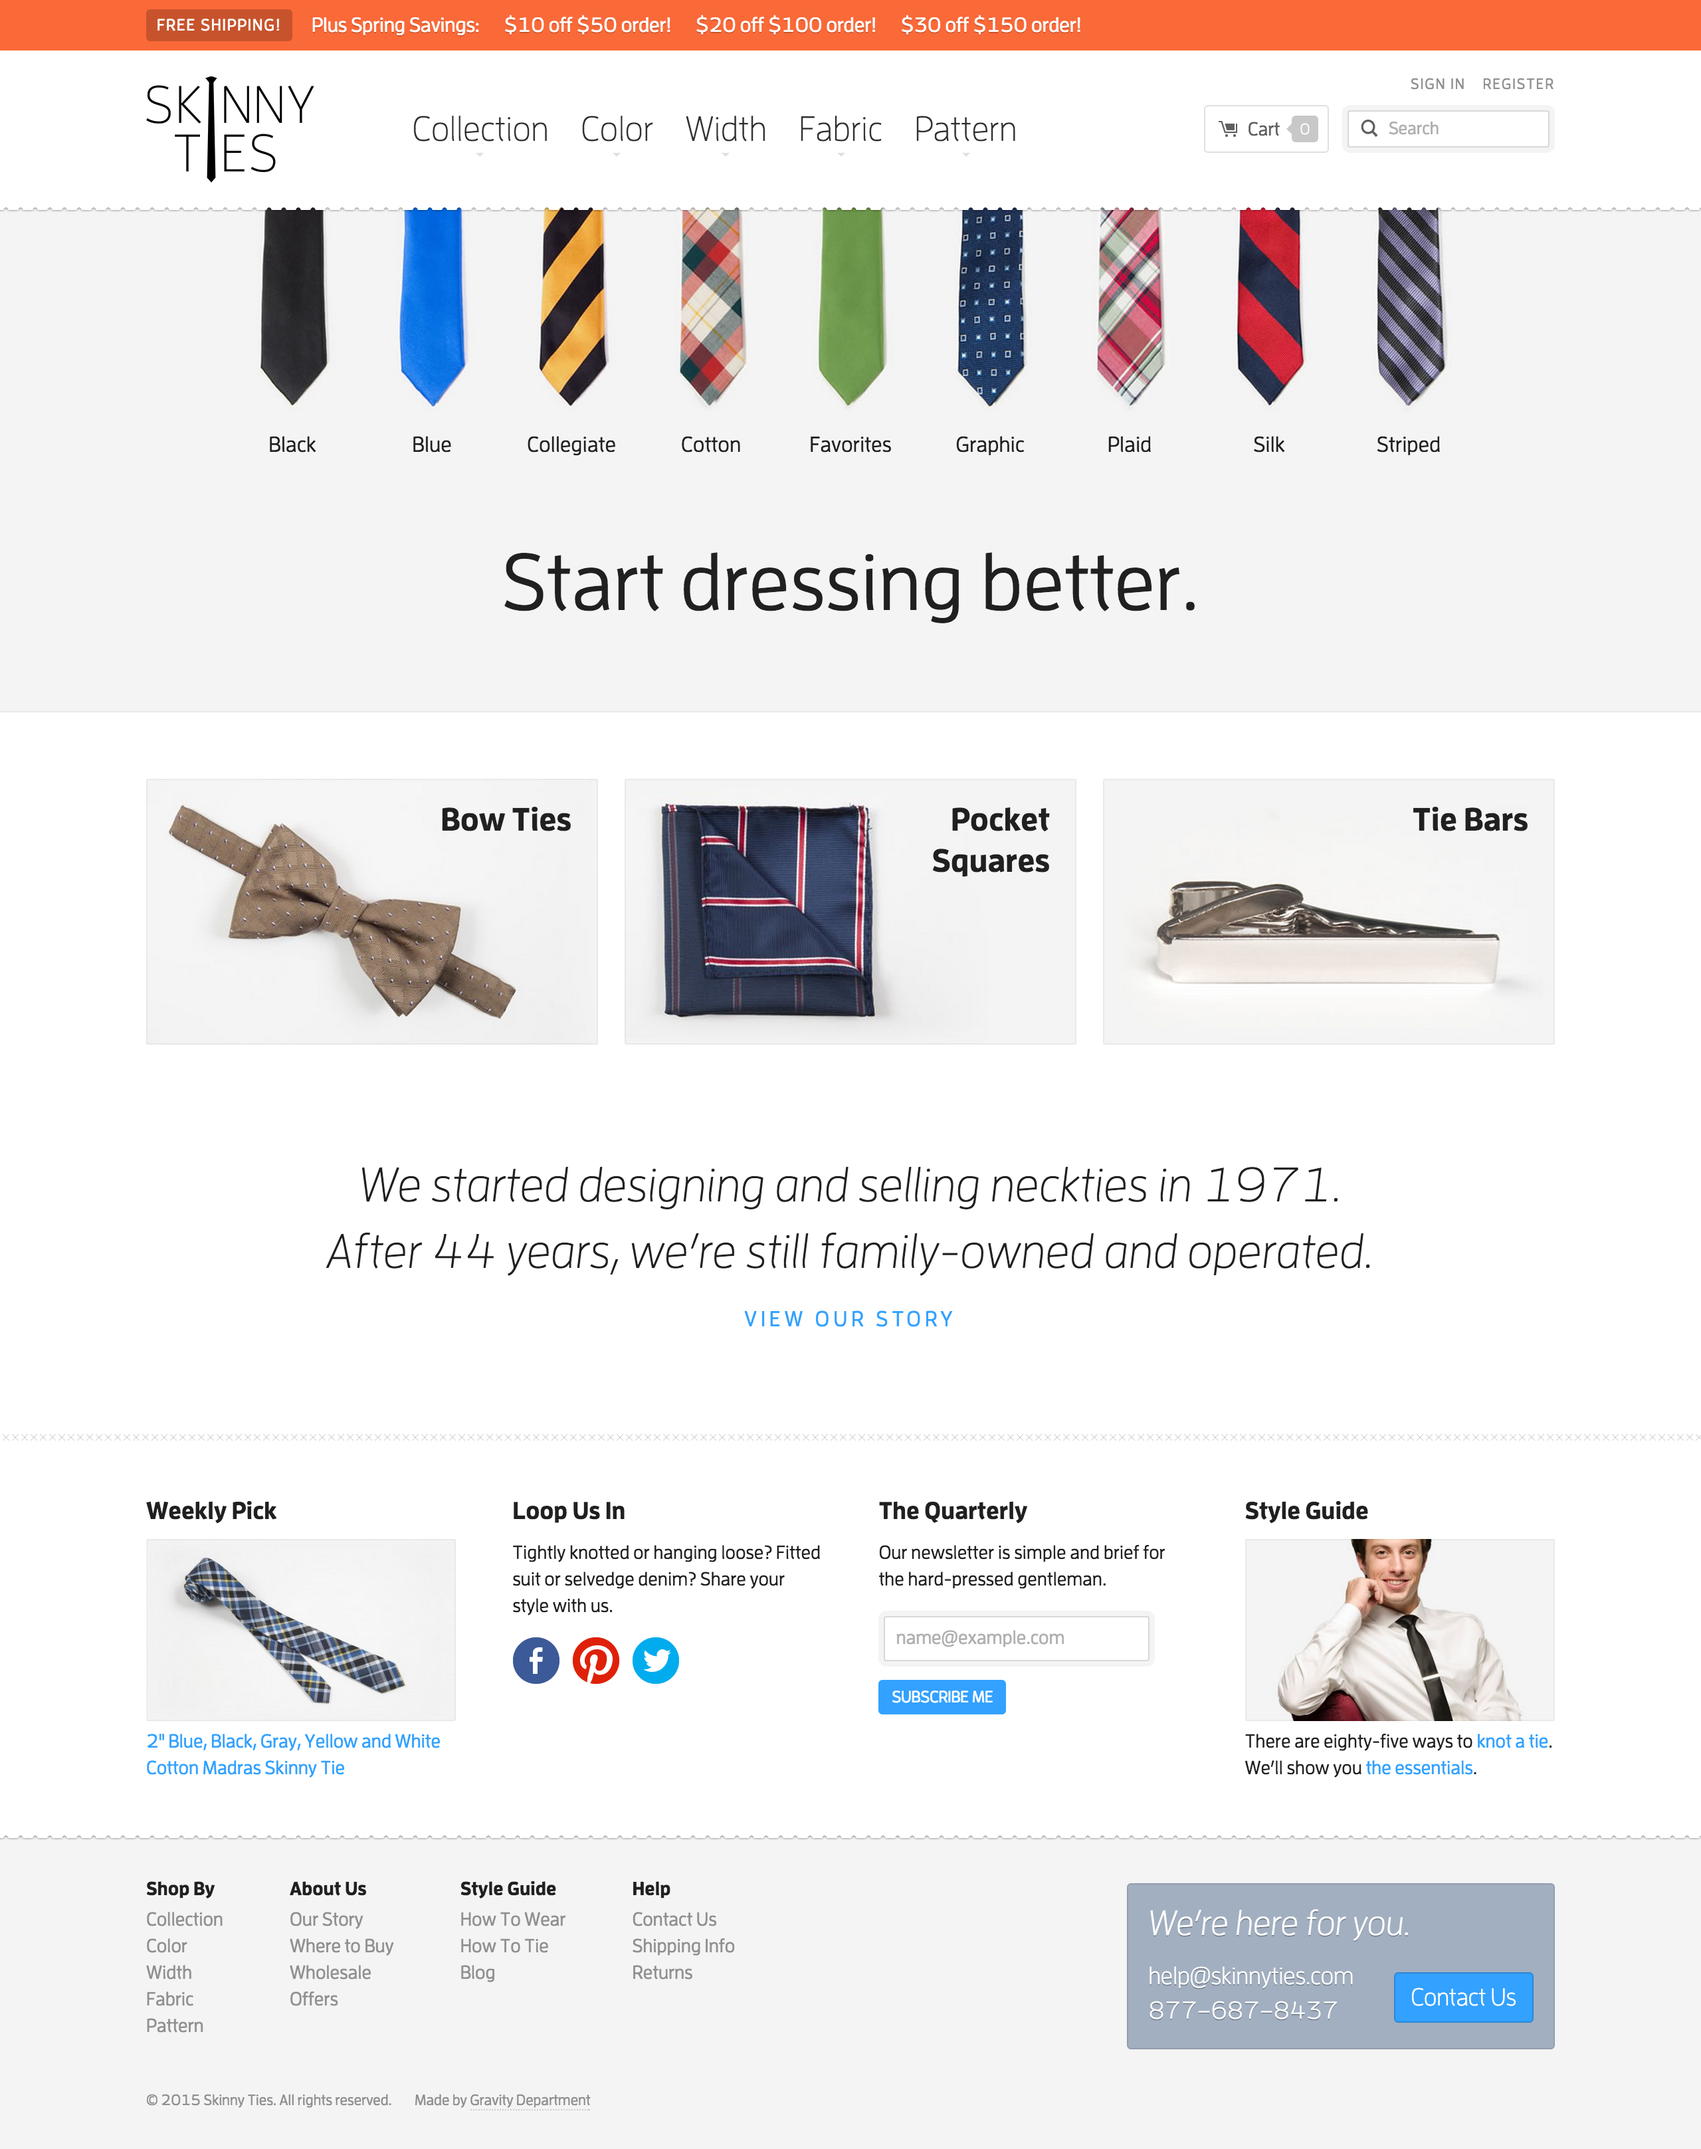
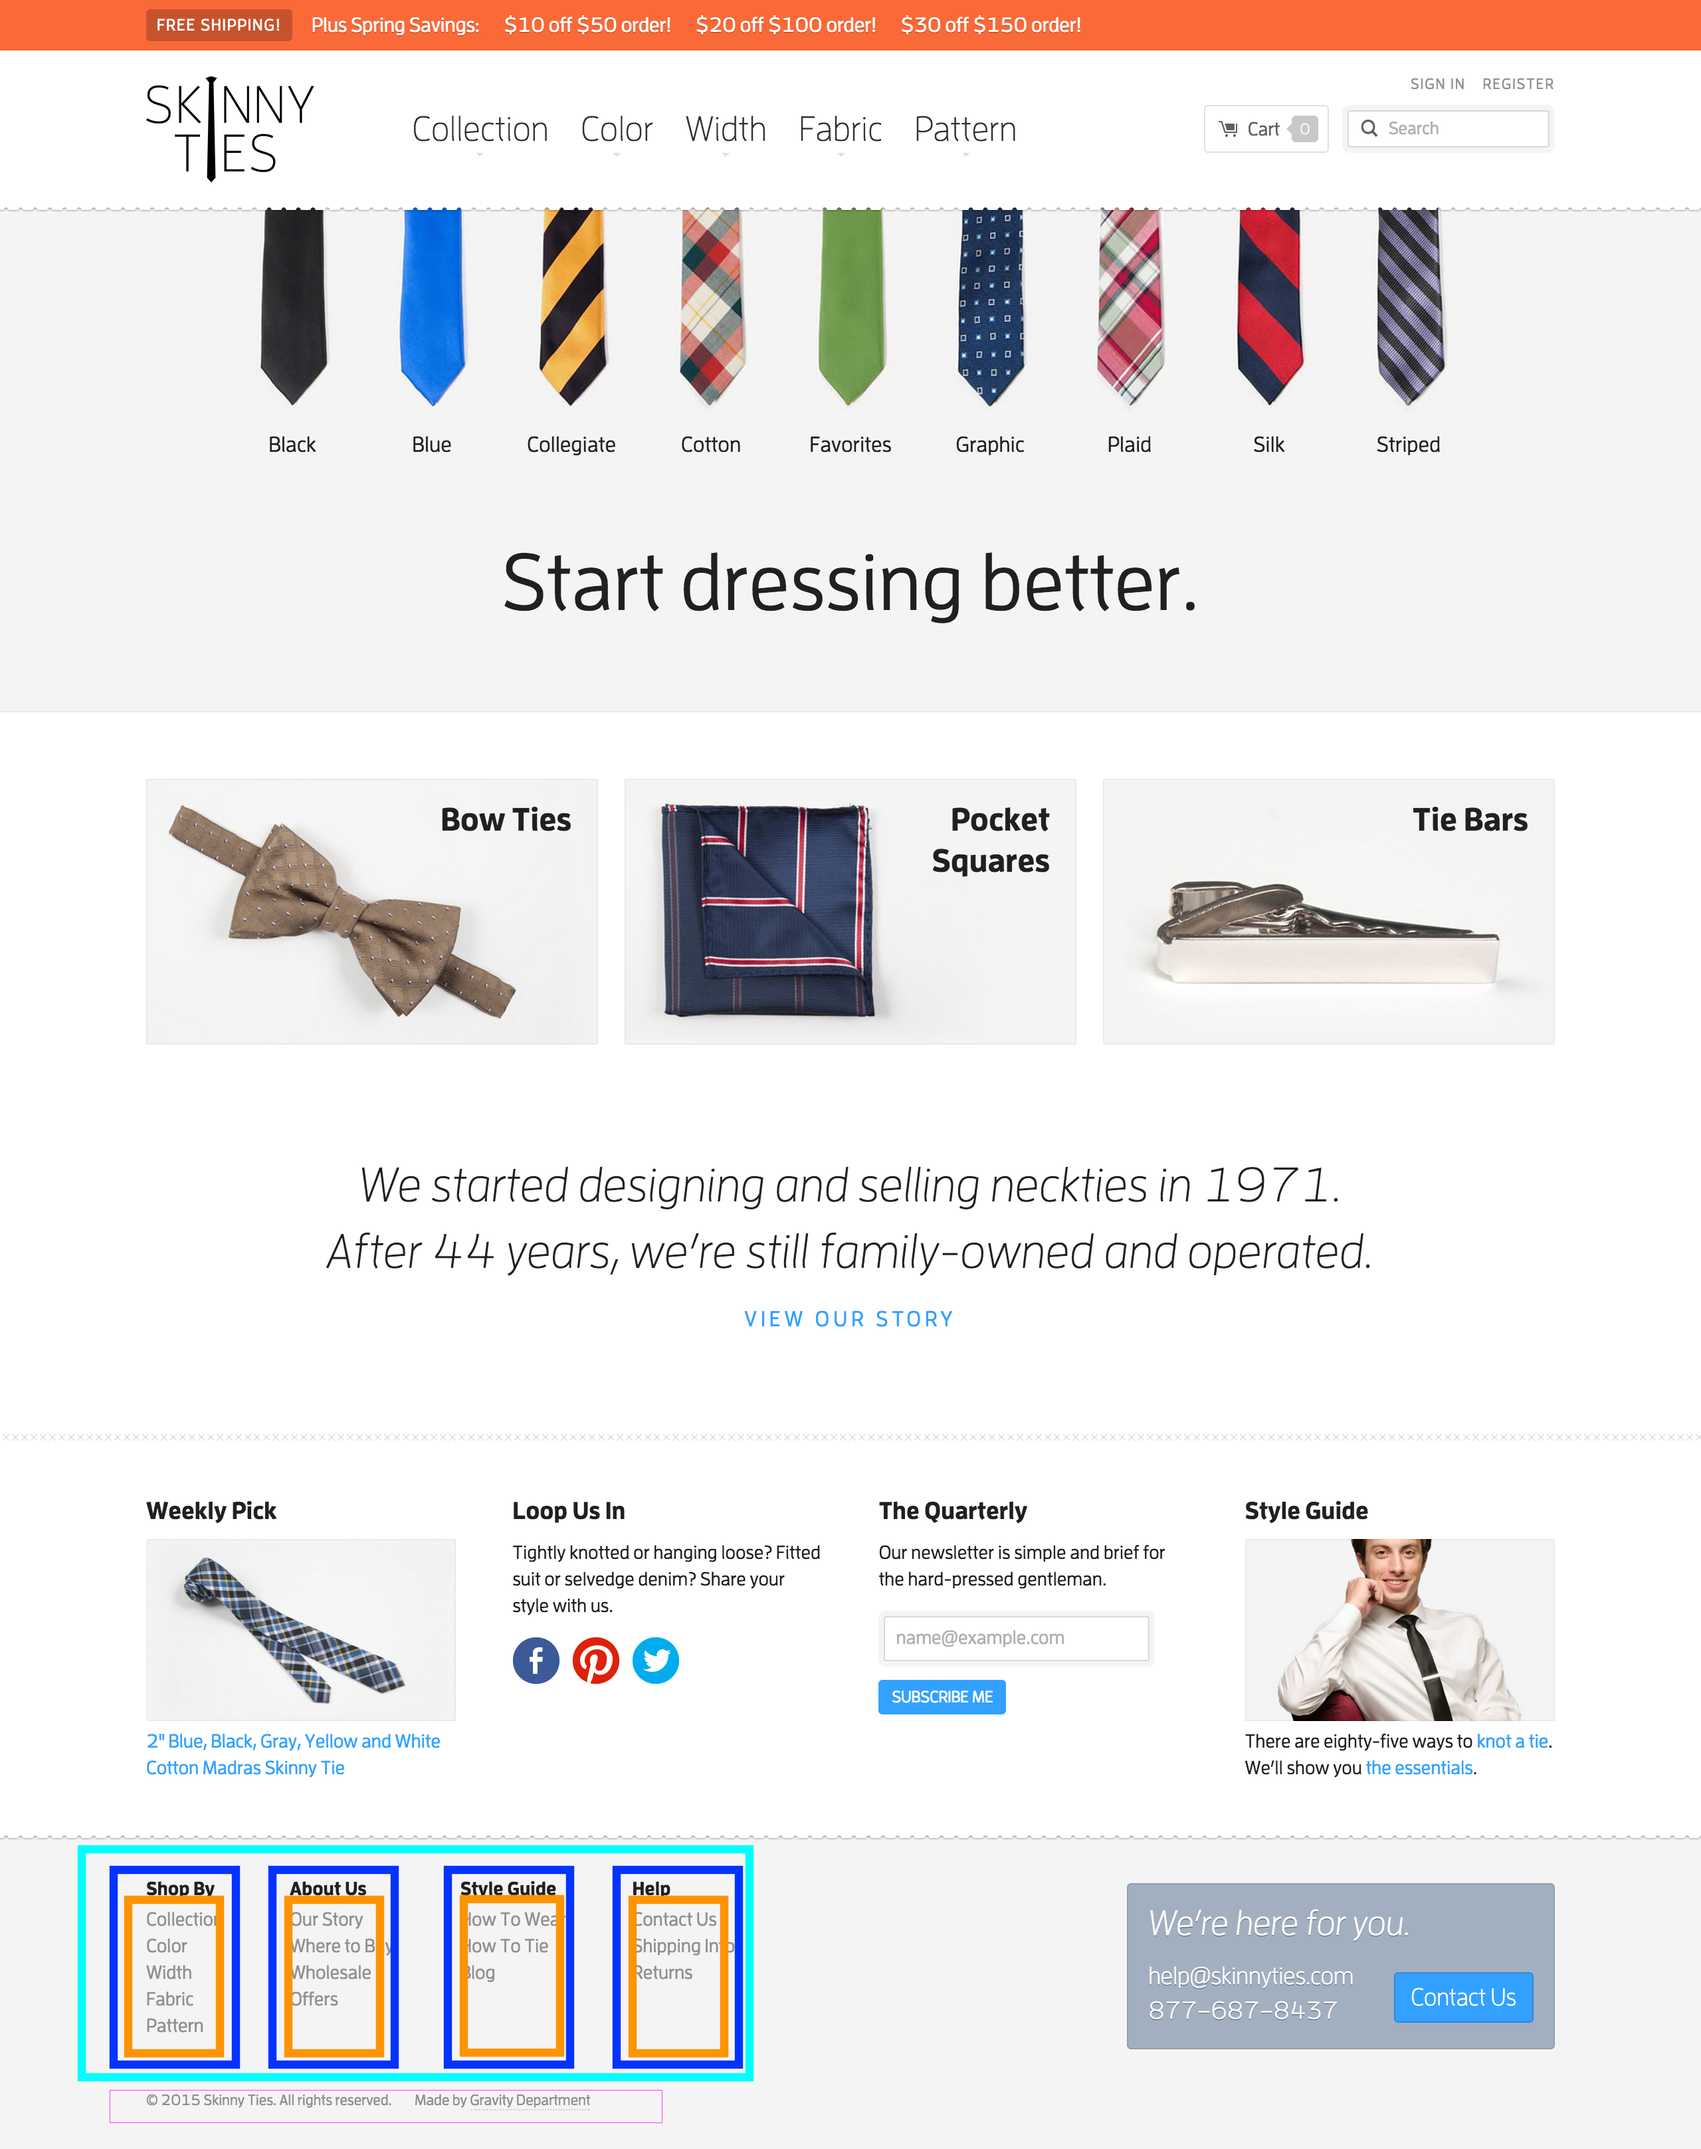
Finished the HTML skeleton all the way through the footer.

Changed region(s): [[0.0312, 0.8432, 0.4688, 0.9682]]

diff --git a/index.html b/index.html
@@ -140,6 +140,58 @@
     </main>
 
     <footer>
+        <div class="footer-wrapper1">
+            <div class="ft-column">
+                <p>Shop By</p>
+                <ul>
+                    <li>Collection</li>
+                    <li>Color</li>
+                    <li>Width</li>
+                    <li>Fabric</li>
+                    <li>Pattern</li>
+                </ul>
+            </div>
 
+            <div class="ft-column">
+                <p>About Us</p>
+                <ul>
+                    <li>Our Story</li>
+                    <li>Where to Buy</li>
+                    <li>Wholesale</li>
+                    <li>Offers</li>
+                </ul>
+            </div>
+
+            <div class="ft-column">
+                <p>Style Guide</p>
+                <ul>
+                    <li>How To Wear</li>
+                    <li>How To Buy</li>
+                    <li>Blog</li>
+                </ul>
+            </div>
+
+            <div class="ft-column">
+                <p>Help</p>
+                <ul>
+                    <li>Contact Us</li>
+                    <li>Shipping Info</li>
+                    <li>Returns</li>
+                </ul>
+            </div>
+        </div>
+        <div class="footer-wrapper2">
+            <p>We're here for you.</p>
+            <p>help@skinnyties.com</p>
+            <p>877-687-8437</p>
+            <!-- Try floating the Contact Us -->
+            <div>
+                <p>Contact Us</p>
+            </div>
+        </div>
+        <div class="fine-print">
+            <p>&copy; 2015 Skinny Ties. All rights reserved.</p>
+            <p>Made by Gravity Department</p>
+        </div>
     </footer>
 </body>
